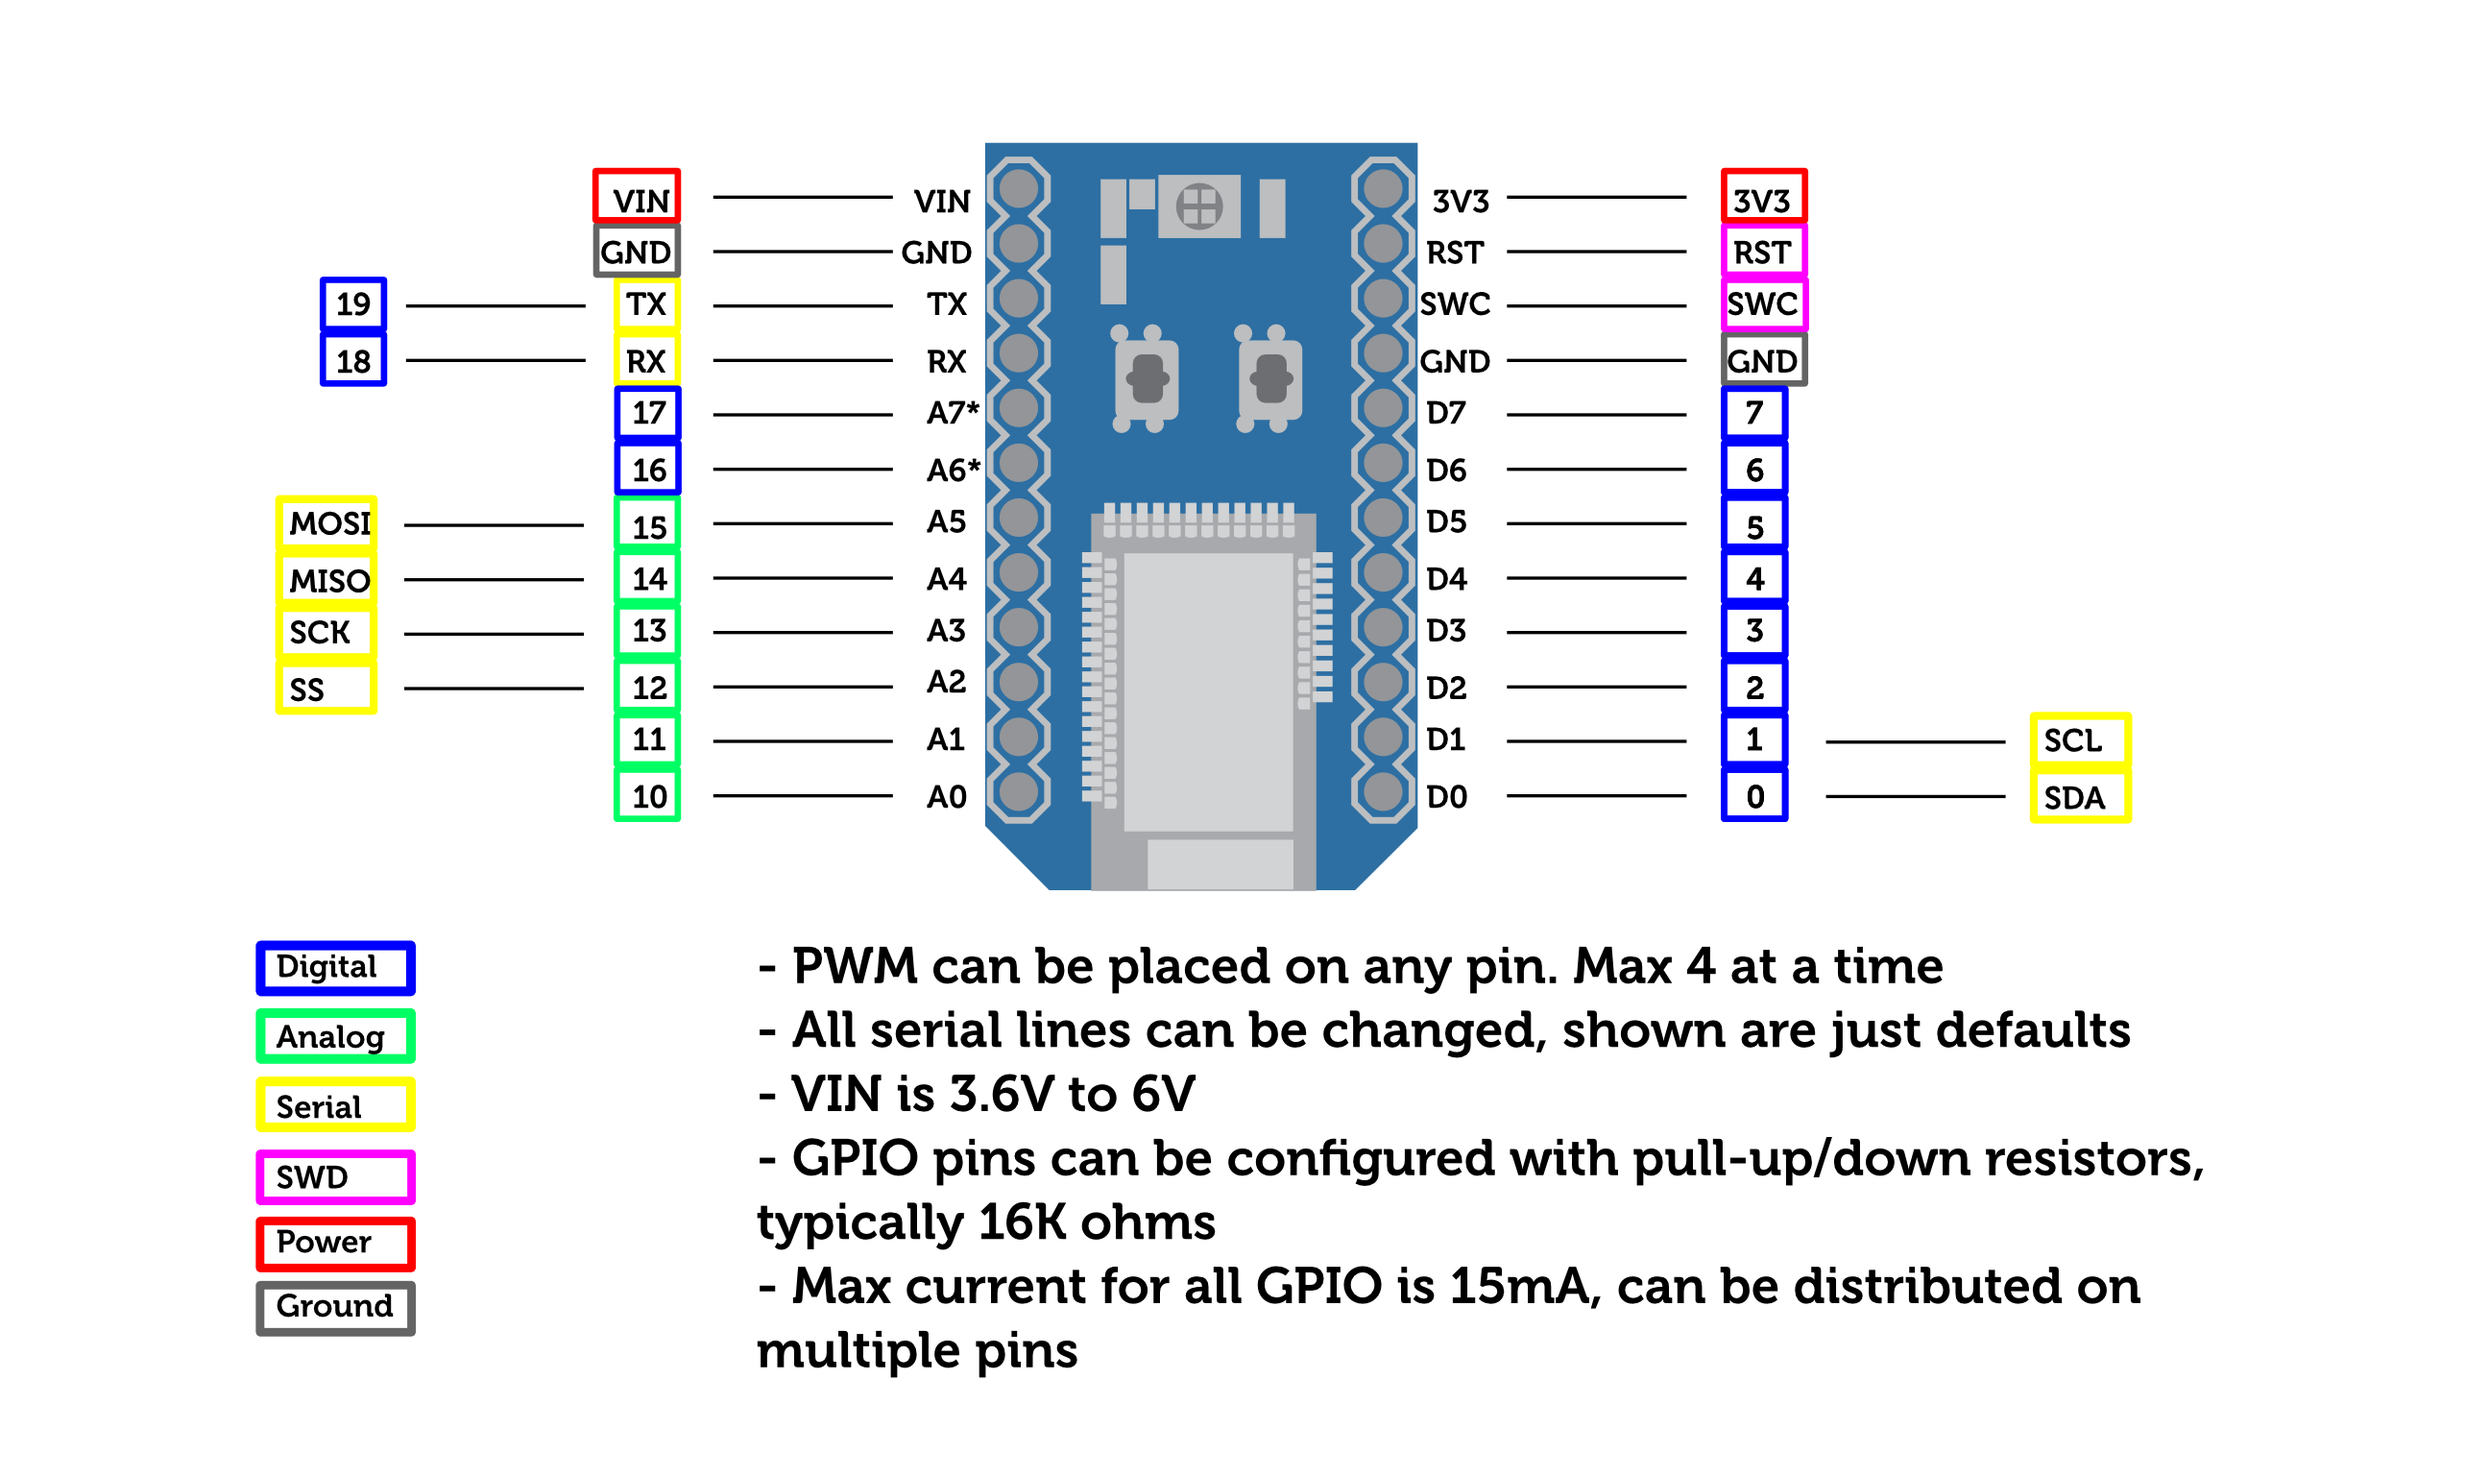
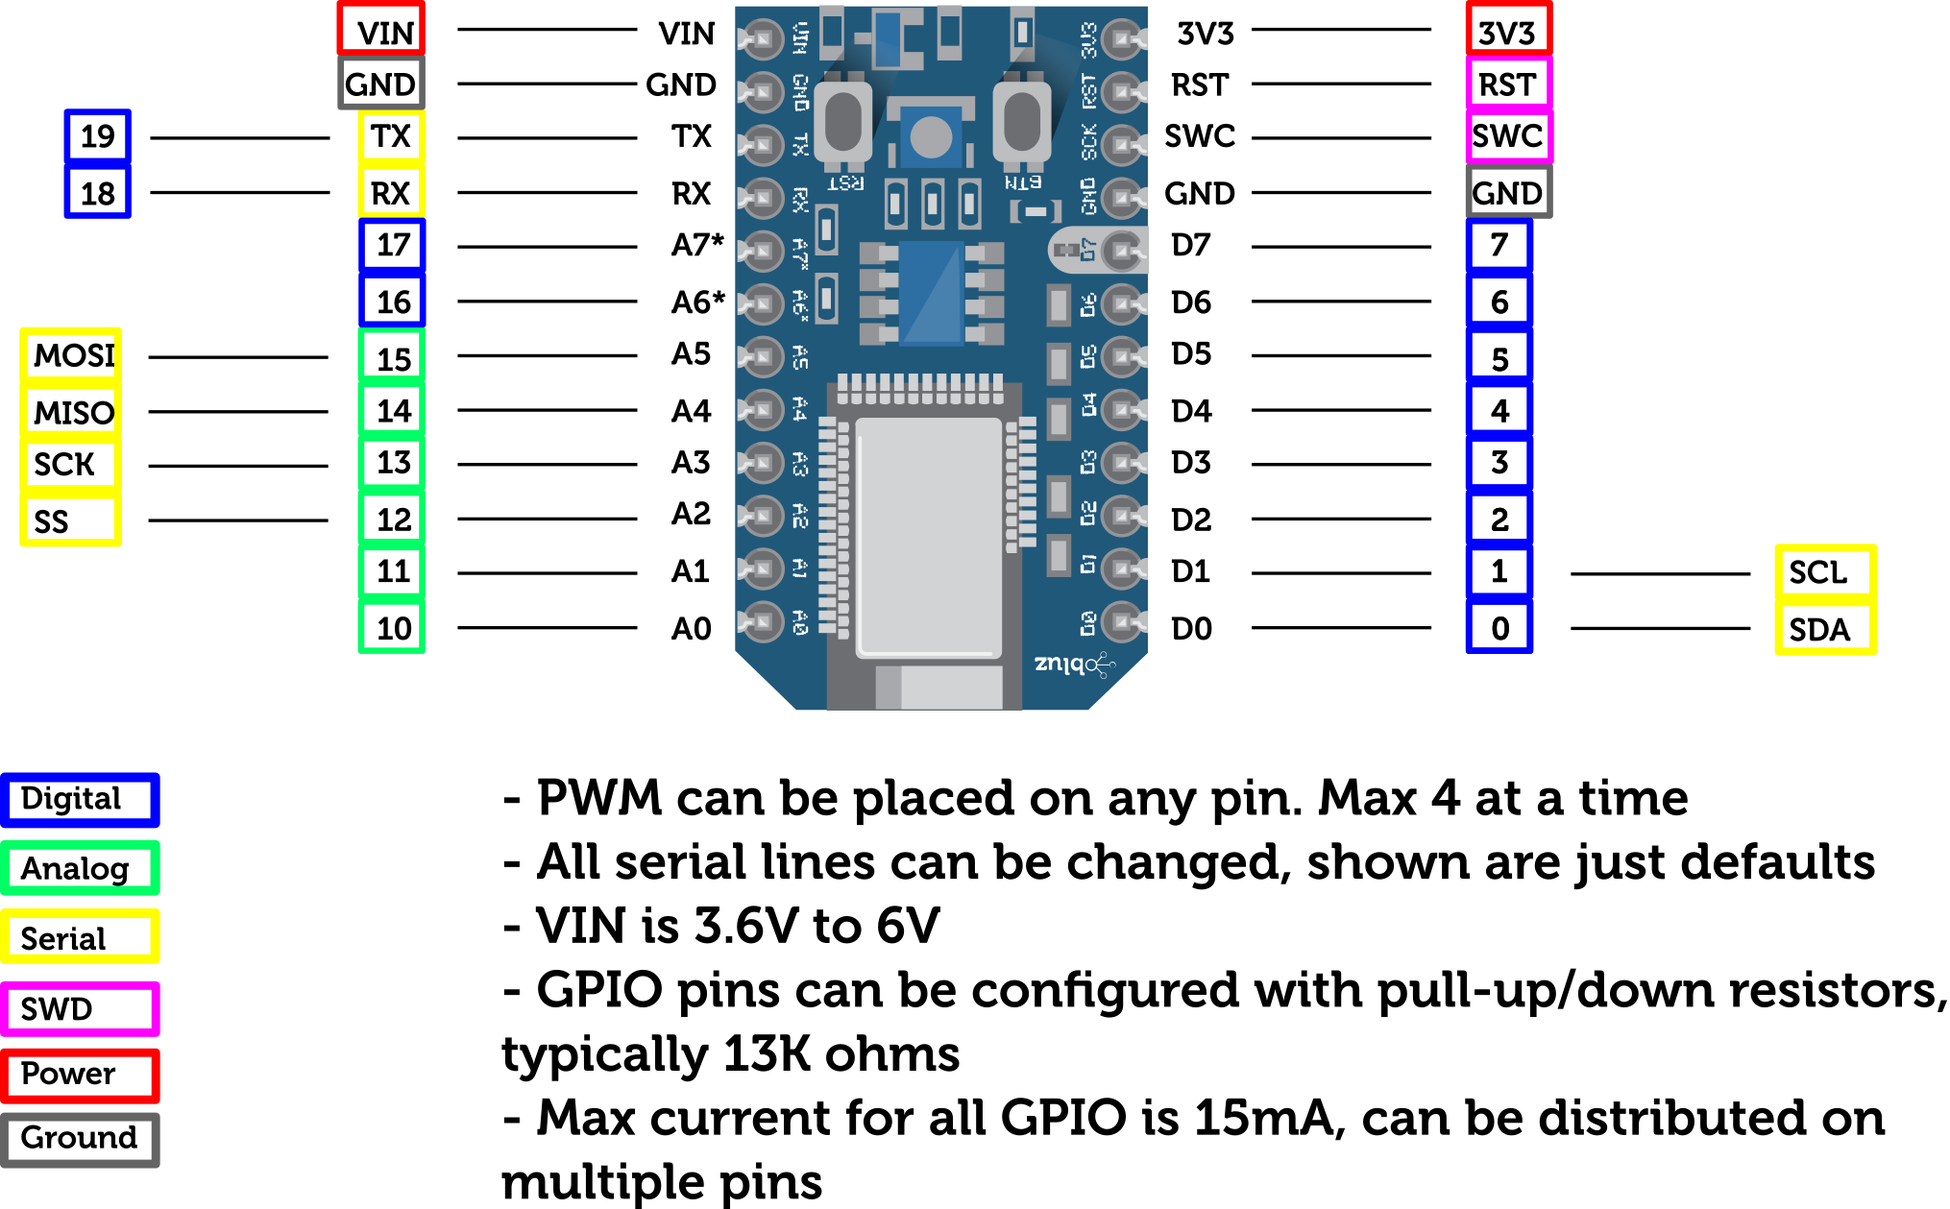
update bluz graphics and add some details around the components

diff --git a/docs/hardware/dk.md b/docs/hardware/dk.md
@@ -11,6 +11,18 @@ And, of course, it contains the Bluetooth LE radio and stack, giving bluz it's p
 ##Pinout
 ![Bluz DK](/img/bluz_pinout.png)
 
+##Guide
+![Bluz DK](/img/bluz_DK_guide.png)
+
+The following are the major components on bluz along with their purpose:
+
+- External SPI Flash: Used to store ID, keys, factory reset firmware, and OTA updates when they are downloaded.
+- RGB LED: Used to indicate status codes to the user about the state of the software.
+- Setup Button: Used to enter setup mode in the bootloader. Available to the user in their application.
+- Linear Regulator: 3.7V to 6.0V input to 3.3V output, provides regulated power to the board.
+- Reset Button: Will reboot bluz.
+- nrf51822 Module: Contains the nrf51822 along with the antenna.
+
 ##Tech Specs
 <p>Hardware</p>
 <ul>
